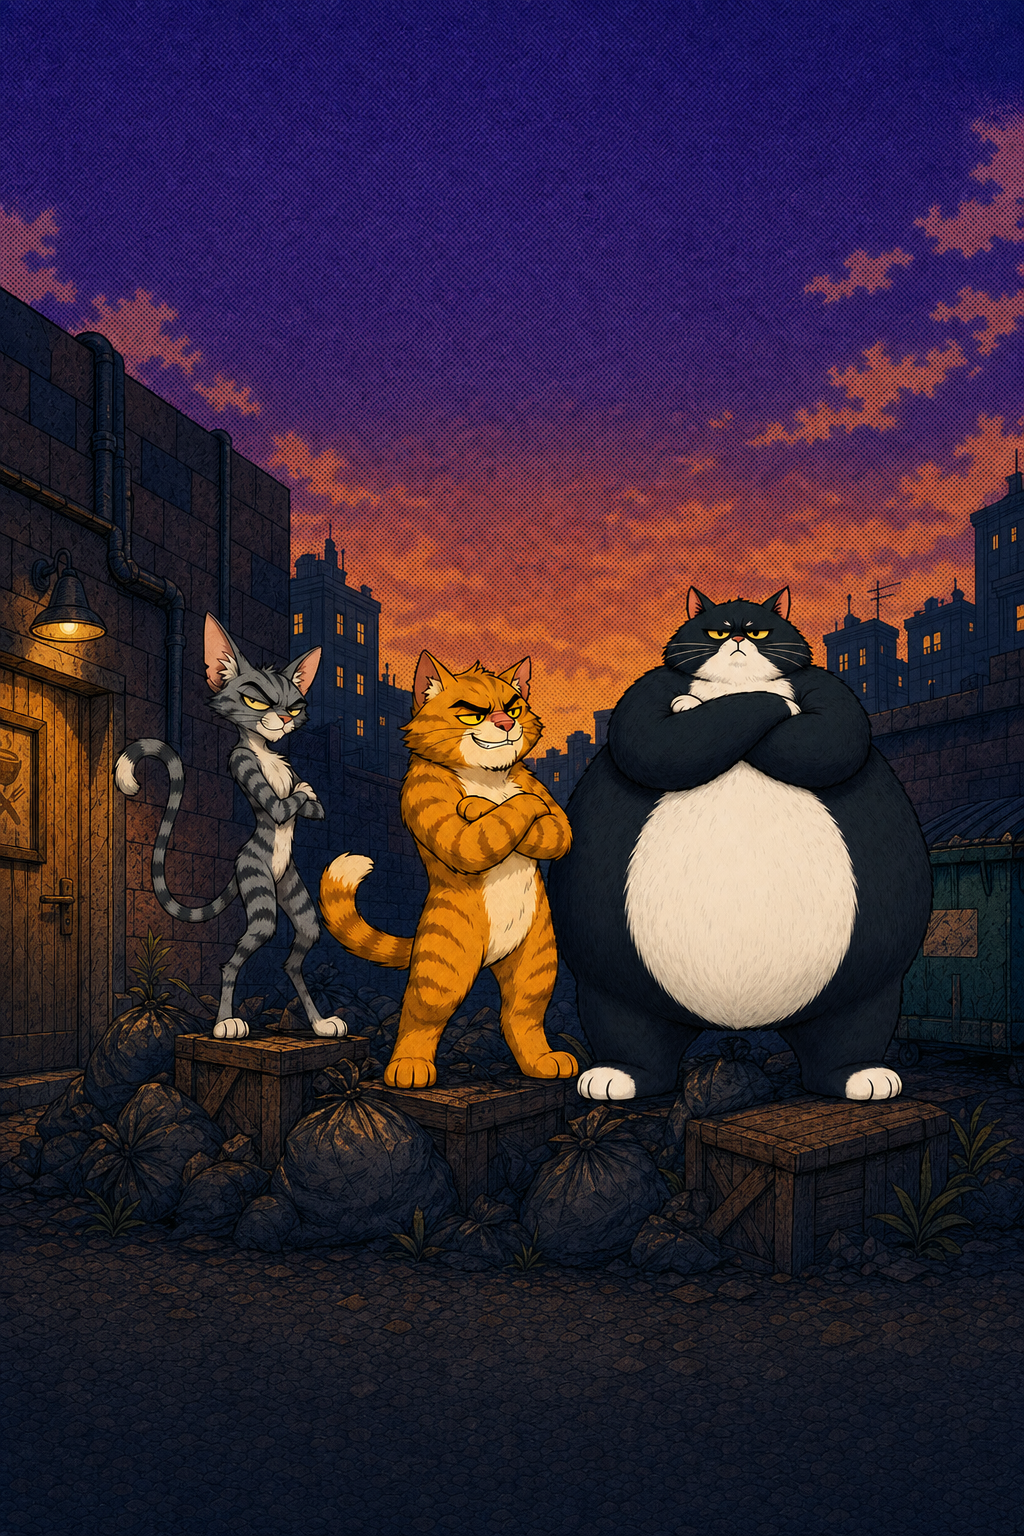
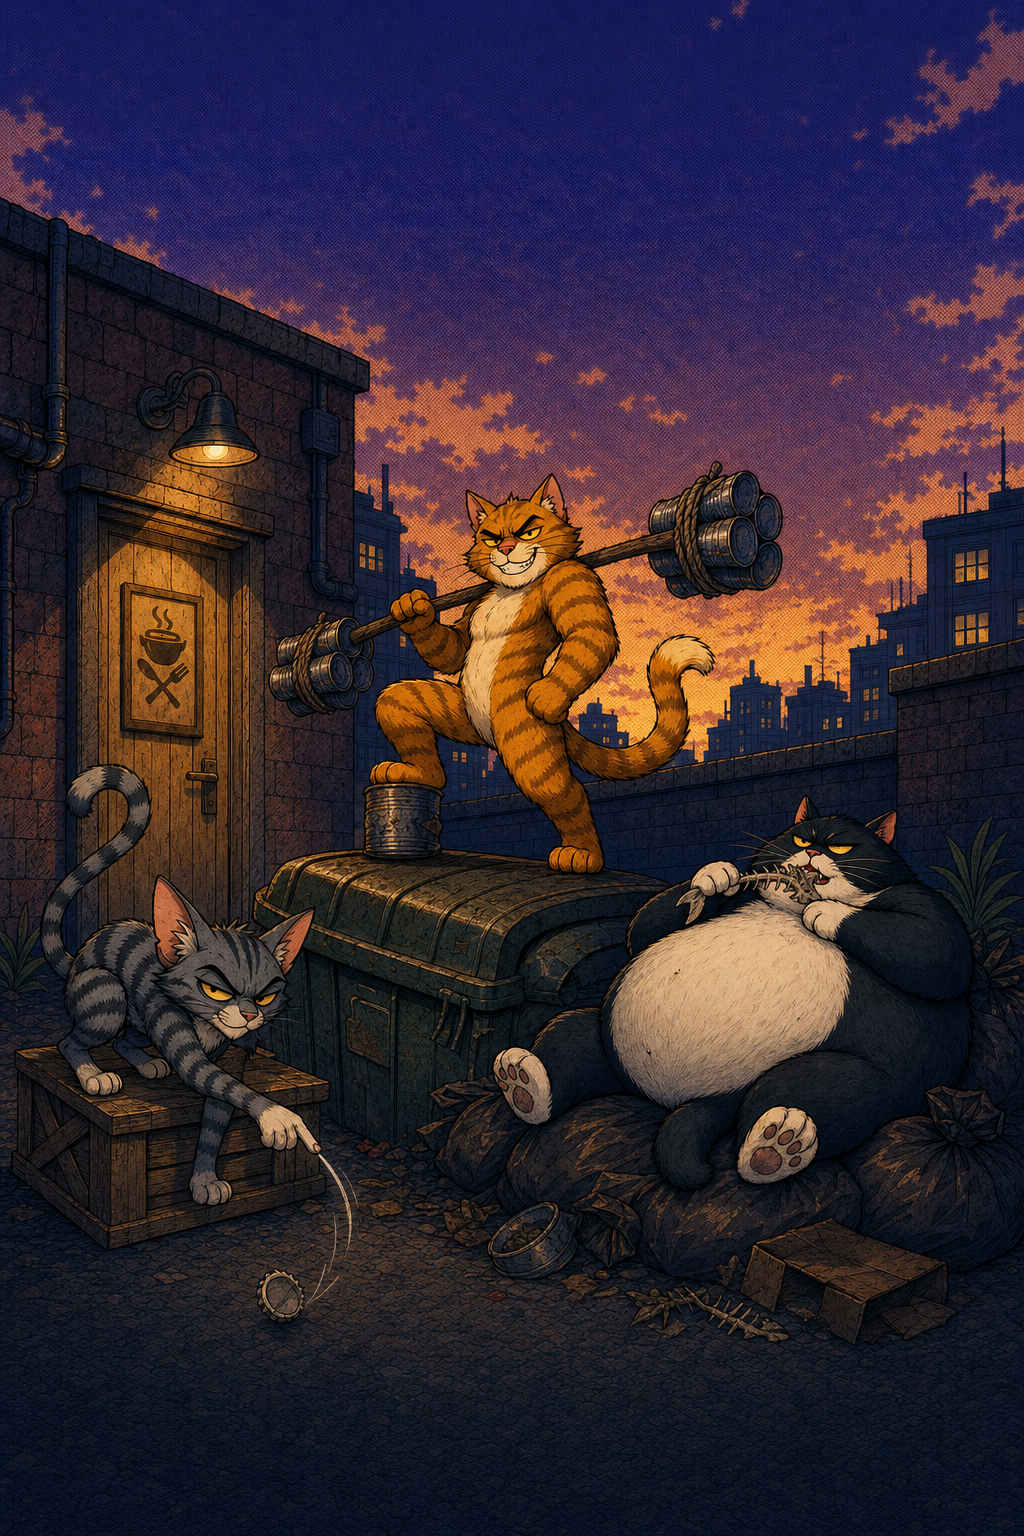
Loading screen background regenerated: the idle sprites only as references for the cats' looks and proportions, each cat in his own pose (Ryzhy with the barbell on the dumpster, Shnyr flipping a bottle cap, Ponchik sprawled on trash bags with a fish skeleton)

diff --git a/ArtSource/README.md b/ArtSource/README.md
@@ -87,5 +87,5 @@
 - Откат (2026-10-16, 2): по просьбе пользователя жим Рыжего возвращён к 8-кадровому клипу из коммита 19a4294 (06:47, до промежуточных кадров v21–v23; те сохранены в ArtSource).
 
 ## Загрузочный экран, лого, иконка (2026-10-16)
-- `Docs/ArtDirection/Generated/raw_v24_loading_icon`: фон `loading2_a` (референсы — айдл-спрайты котов в их настоящем соотношении, `ref_idle_gang.png`; первая серия `loading_*` без них исказила пропорции), лого `logo_c` (табличка вырезана из чёрного фона), иконка `icon_c`. Копии: `ArtSource/UI/loading_bg_v1|v2.png`, `logo_v1.png`, `app_icon_v1.png`.
+- `Docs/ArtDirection/Generated/raw_v24_loading_icon`: фон `loading3_a` (айдл-спрайты котов — референс только внешности и пропорций, `ref_idle_gang.png`; позы свои: Рыжий со штангой на баке, Шнырь с пробкой, Пончик с рыбьим скелетом; `loading2_*` скопировали позы айдлов, `loading_*` исказили пропорции), лого `logo_c` (табличка вырезана из чёрного фона), иконка `icon_c`. Копии: `ArtSource/UI/loading_bg_v1|v2.png`, `logo_v1.png`, `app_icon_v1.png`.
 - В игру: `Art/UI/loading_bg.png`, `Art/UI/logo.png`, `Art/AppIcon/app_icon.png`; меню TrashCats/Art/Apply Loading Screen And App Icon прописывает их в Boot-сцену и Player Settings.
